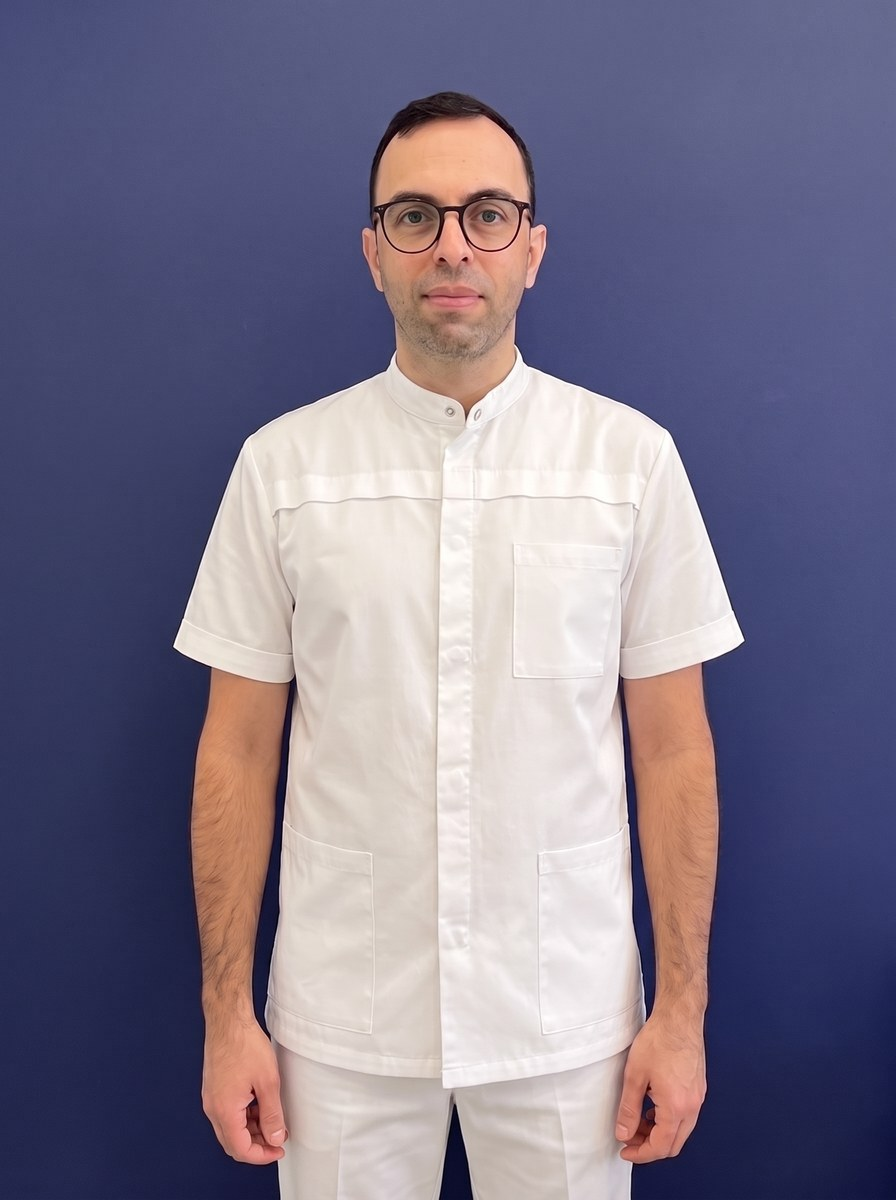
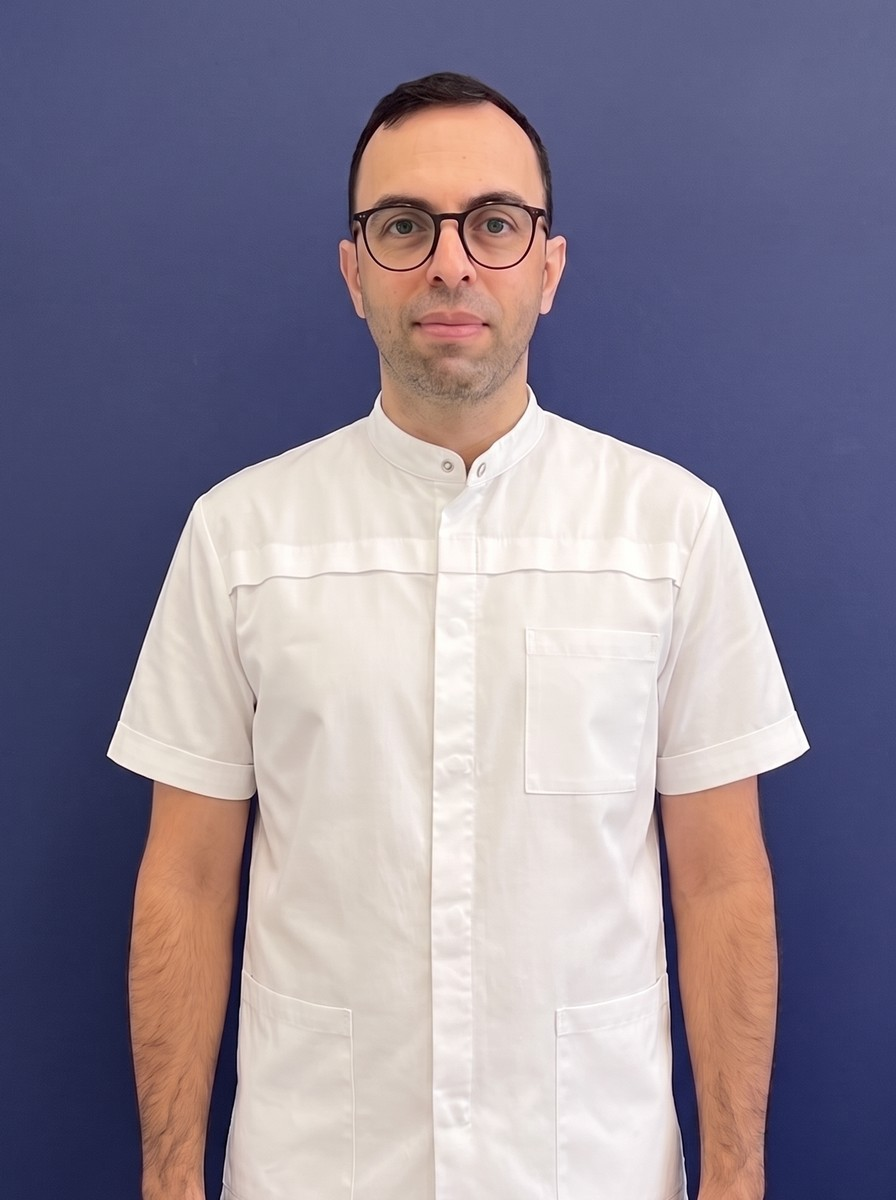
Портреты выровнены по единому кадру, уточнены специализации
Лица теперь одинаково близко: у всех семерых линия глаз на 20% высоты
кадра, лицо занимает одну и ту же долю ширины, центр по вертикальной оси
— эталоном взят кадр Старикова. Кроп считался от замеров лица на каждом
снимке, а не подгонкой на глаз.

Портрет Анны был снят заметно крупнее остальных, и обрезкой его было не
отдалить — кадр пришлось сначала расширить (outpaint дорисовал фон и
фигуру), и только потом кадрировать вместе со всеми.

Стариков и Лев — стоматологи-хирурги, а не терапевты. Полина —
гигиенист, не стоматолог, поэтому её страница, как у ассистентов и
администратора, отдаёт Person вместо Physician и не зовёт «к врачу».

diff --git a/konsultatsiya.html b/konsultatsiya.html
@@ -32,7 +32,7 @@ try {
 <link rel="preconnect" href="https://fonts.googleapis.com">
 <link rel="preconnect" href="https://fonts.gstatic.com" crossorigin>
 <link href="https://fonts.googleapis.com/css2?family=Unbounded:wght@500;700;900&family=Manrope:wght@400;500;700;800&display=swap" rel="stylesheet">
-<link rel="stylesheet" href="styles.css?v=20260826a">
+<link rel="stylesheet" href="styles.css?v=20260826b">
 <script type="application/ld+json">{"@context": "https://schema.org", "@type": "Service", "name": "Приём и консультация стоматолога", "serviceType": "Приём и консультация стоматолога", "provider": {"@type": "Dentist", "name": "Честная стоматология", "address": {"@type": "PostalAddress", "streetAddress": "ул. Танкистов, 68", "addressLocality": "Пермь", "postalCode": "614095", "addressCountry": "RU"}, "telephone": "+79991152419"}, "areaServed": "Пермь", "offers": {"@type": "Offer", "price": "600", "priceCurrency": "RUB"}}</script>
 <script type="application/ld+json">{"@context": "https://schema.org", "@type": "FAQPage", "mainEntity": [{"@type": "Question", "name": "Нужно ли готовиться к консультации?", "acceptedAnswer": {"@type": "Answer", "text": "Нет, особой подготовки не требуется. Если есть снимки из других клиник — возьмите их с собой."}}, {"@type": "Question", "name": "Обязательно ли лечиться после консультации именно у вас?", "acceptedAnswer": {"@type": "Answer", "text": "Нет. План лечения и смета остаются у вас — решение вы принимаете без давления."}}, {"@type": "Question", "name": "Сколько действует смета?", "acceptedAnswer": {"@type": "Answer", "text": "Смета фиксируется в договоре до начала лечения и не меняется в процессе."}}]}</script>
 </head>
@@ -172,11 +172,11 @@ try {
 </div>
 
 <script>window.SERVICE_ID = "konsultatsiya";</script>
-<script src="db.js?v=20260826a"></script>
-<script src="md.js?v=20260826a"></script>
-<script src="services-data.js?v=20260826a"></script>
-<script src="ux.js?v=20260826a"></script>
-<script src="service.js?v=20260826a"></script>
-<script src="a11y.js?v=20260826a"></script>
+<script src="db.js?v=20260826b"></script>
+<script src="md.js?v=20260826b"></script>
+<script src="services-data.js?v=20260826b"></script>
+<script src="ux.js?v=20260826b"></script>
+<script src="service.js?v=20260826b"></script>
+<script src="a11y.js?v=20260826b"></script>
 </body>
 </html>

diff --git a/profgigiena.html b/profgigiena.html
@@ -32,7 +32,7 @@ try {
 <link rel="preconnect" href="https://fonts.googleapis.com">
 <link rel="preconnect" href="https://fonts.gstatic.com" crossorigin>
 <link href="https://fonts.googleapis.com/css2?family=Unbounded:wght@500;700;900&family=Manrope:wght@400;500;700;800&display=swap" rel="stylesheet">
-<link rel="stylesheet" href="styles.css?v=20260826a">
+<link rel="stylesheet" href="styles.css?v=20260826b">
 <script type="application/ld+json">{"@context": "https://schema.org", "@type": "Service", "name": "Профессиональная гигиена полости рта", "serviceType": "Профессиональная гигиена полости рта", "provider": {"@type": "Dentist", "name": "Честная стоматология", "address": {"@type": "PostalAddress", "streetAddress": "ул. Танкистов, 68", "addressLocality": "Пермь", "postalCode": "614095", "addressCountry": "RU"}, "telephone": "+79991152419"}, "areaServed": "Пермь", "offers": {"@type": "Offer", "price": "4900", "priceCurrency": "RUB"}}</script>
 <script type="application/ld+json">{"@context": "https://schema.org", "@type": "FAQPage", "mainEntity": [{"@type": "Question", "name": "Как часто нужно делать профгигиену?", "acceptedAnswer": {"@type": "Answer", "text": "Раз в полгода — регулярная гигиена в разы снижает риск кариеса."}}, {"@type": "Question", "name": "Есть ли акция?", "acceptedAnswer": {"@type": "Answer", "text": "Да, до 31.08.2026 чистка 1+1 для двоих — всего 6 990 ₽."}}, {"@type": "Question", "name": "Отбеливает ли чистка зубы?", "acceptedAnswer": {"@type": "Answer", "text": "Air-Flow возвращает естественный цвет эмали, убирая налёт от кофе, чая и курения."}}]}</script>
 </head>
@@ -172,11 +172,11 @@ try {
 </div>
 
 <script>window.SERVICE_ID = "profgigiena";</script>
-<script src="db.js?v=20260826a"></script>
-<script src="md.js?v=20260826a"></script>
-<script src="services-data.js?v=20260826a"></script>
-<script src="ux.js?v=20260826a"></script>
-<script src="service.js?v=20260826a"></script>
-<script src="a11y.js?v=20260826a"></script>
+<script src="db.js?v=20260826b"></script>
+<script src="md.js?v=20260826b"></script>
+<script src="services-data.js?v=20260826b"></script>
+<script src="ux.js?v=20260826b"></script>
+<script src="service.js?v=20260826b"></script>
+<script src="a11y.js?v=20260826b"></script>
 </body>
 </html>

diff --git a/protezirovanie.html b/protezirovanie.html
@@ -32,7 +32,7 @@ try {
 <link rel="preconnect" href="https://fonts.googleapis.com">
 <link rel="preconnect" href="https://fonts.gstatic.com" crossorigin>
 <link href="https://fonts.googleapis.com/css2?family=Unbounded:wght@500;700;900&family=Manrope:wght@400;500;700;800&display=swap" rel="stylesheet">
-<link rel="stylesheet" href="styles.css?v=20260826a">
+<link rel="stylesheet" href="styles.css?v=20260826b">
 <script type="application/ld+json">{"@context": "https://schema.org", "@type": "Service", "name": "Протезирование зубов", "serviceType": "Протезирование зубов", "provider": {"@type": "Dentist", "name": "Честная стоматология", "address": {"@type": "PostalAddress", "streetAddress": "ул. Танкистов, 68", "addressLocality": "Пермь", "postalCode": "614095", "addressCountry": "RU"}, "telephone": "+79991152419"}, "areaServed": "Пермь", "offers": {"@type": "Offer", "price": "10440", "priceCurrency": "RUB"}}</script>
 <script type="application/ld+json">{"@context": "https://schema.org", "@type": "FAQPage", "mainEntity": [{"@type": "Question", "name": "Что значит «под ключ»?", "acceptedAnswer": {"@type": "Answer", "text": "В цену включены все этапы: подготовка, слепки, изготовление, примерка и фиксация."}}, {"@type": "Question", "name": "Какая коронка лучше?", "acceptedAnswer": {"@type": "Answer", "text": "Цельнолитая — бюджетный вариант для жевательных зубов, циркониевая — эстетичнее, по акции 24 500 ₽."}}, {"@type": "Question", "name": "Больно ли ставить коронку?", "acceptedAnswer": {"@type": "Answer", "text": "Все этапы проходят с анестезией."}}]}</script>
 </head>
@@ -172,11 +172,11 @@ try {
 </div>
 
 <script>window.SERVICE_ID = "protezirovanie";</script>
-<script src="db.js?v=20260826a"></script>
-<script src="md.js?v=20260826a"></script>
-<script src="services-data.js?v=20260826a"></script>
-<script src="ux.js?v=20260826a"></script>
-<script src="service.js?v=20260826a"></script>
-<script src="a11y.js?v=20260826a"></script>
+<script src="db.js?v=20260826b"></script>
+<script src="md.js?v=20260826b"></script>
+<script src="services-data.js?v=20260826b"></script>
+<script src="ux.js?v=20260826b"></script>
+<script src="service.js?v=20260826b"></script>
+<script src="a11y.js?v=20260826b"></script>
 </body>
 </html>

diff --git a/lechenie-kariesa.html b/lechenie-kariesa.html
@@ -32,7 +32,7 @@ try {
 <link rel="preconnect" href="https://fonts.googleapis.com">
 <link rel="preconnect" href="https://fonts.gstatic.com" crossorigin>
 <link href="https://fonts.googleapis.com/css2?family=Unbounded:wght@500;700;900&family=Manrope:wght@400;500;700;800&display=swap" rel="stylesheet">
-<link rel="stylesheet" href="styles.css?v=20260826a">
+<link rel="stylesheet" href="styles.css?v=20260826b">
 <script type="application/ld+json">{"@context": "https://schema.org", "@type": "Service", "name": "Лечение кариеса", "serviceType": "Лечение кариеса", "provider": {"@type": "Dentist", "name": "Честная стоматология", "address": {"@type": "PostalAddress", "streetAddress": "ул. Танкистов, 68", "addressLocality": "Пермь", "postalCode": "614095", "addressCountry": "RU"}, "telephone": "+79991152419"}, "areaServed": "Пермь", "offers": {"@type": "Offer", "price": "4000", "priceCurrency": "RUB"}}</script>
 <script type="application/ld+json">{"@context": "https://schema.org", "@type": "FAQPage", "mainEntity": [{"@type": "Question", "name": "Больно ли лечить кариес?", "acceptedAnswer": {"@type": "Answer", "text": "Нет, используем современную анестезию — пациенты не чувствуют даже укол."}}, {"@type": "Question", "name": "Действует ли скидка?", "acceptedAnswer": {"@type": "Answer", "text": "Да, до 31.08.2026 — скидка 15% на лечение кариеса при прохождении профгигиены."}}, {"@type": "Question", "name": "Что будет, если кариес не лечить?", "acceptedAnswer": {"@type": "Answer", "text": "Кариес перейдёт в пульпит — лечение будет дольше и дороже."}}]}</script>
 </head>
@@ -172,11 +172,11 @@ try {
 </div>
 
 <script>window.SERVICE_ID = "lechenie-kariesa";</script>
-<script src="db.js?v=20260826a"></script>
-<script src="md.js?v=20260826a"></script>
-<script src="services-data.js?v=20260826a"></script>
-<script src="ux.js?v=20260826a"></script>
-<script src="service.js?v=20260826a"></script>
-<script src="a11y.js?v=20260826a"></script>
+<script src="db.js?v=20260826b"></script>
+<script src="md.js?v=20260826b"></script>
+<script src="services-data.js?v=20260826b"></script>
+<script src="ux.js?v=20260826b"></script>
+<script src="service.js?v=20260826b"></script>
+<script src="a11y.js?v=20260826b"></script>
 </body>
 </html>

diff --git a/restavratsiya.html b/restavratsiya.html
@@ -32,7 +32,7 @@ try {
 <link rel="preconnect" href="https://fonts.googleapis.com">
 <link rel="preconnect" href="https://fonts.gstatic.com" crossorigin>
 <link href="https://fonts.googleapis.com/css2?family=Unbounded:wght@500;700;900&family=Manrope:wght@400;500;700;800&display=swap" rel="stylesheet">
-<link rel="stylesheet" href="styles.css?v=20260826a">
+<link rel="stylesheet" href="styles.css?v=20260826b">
 <script type="application/ld+json">{"@context": "https://schema.org", "@type": "Service", "name": "Эстетическая реставрация зубов", "serviceType": "Эстетическая реставрация зубов", "provider": {"@type": "Dentist", "name": "Честная стоматология", "address": {"@type": "PostalAddress", "streetAddress": "ул. Танкистов, 68", "addressLocality": "Пермь", "postalCode": "614095", "addressCountry": "RU"}, "telephone": "+79991152419"}, "areaServed": "Пермь", "offers": {"@type": "Offer", "price": "3500", "priceCurrency": "RUB"}}</script>
 <script type="application/ld+json">{"@context": "https://schema.org", "@type": "FAQPage", "mainEntity": [{"@type": "Question", "name": "Чем реставрация отличается от коронки?", "acceptedAnswer": {"@type": "Answer", "text": "Реставрация делается композитом за один визит и не требует обточки зуба."}}, {"@type": "Question", "name": "Сколько держится реставрация?", "acceptedAnswer": {"@type": "Answer", "text": "При правильном уходе — 5–10 лет."}}, {"@type": "Question", "name": "Можно ли закрыть щель между передними зубами?", "acceptedAnswer": {"@type": "Answer", "text": "Да, это решается за один визит."}}]}</script>
 </head>
@@ -172,11 +172,11 @@ try {
 </div>
 
 <script>window.SERVICE_ID = "restavratsiya";</script>
-<script src="db.js?v=20260826a"></script>
-<script src="md.js?v=20260826a"></script>
-<script src="services-data.js?v=20260826a"></script>
-<script src="ux.js?v=20260826a"></script>
-<script src="service.js?v=20260826a"></script>
-<script src="a11y.js?v=20260826a"></script>
+<script src="db.js?v=20260826b"></script>
+<script src="md.js?v=20260826b"></script>
+<script src="services-data.js?v=20260826b"></script>
+<script src="ux.js?v=20260826b"></script>
+<script src="service.js?v=20260826b"></script>
+<script src="a11y.js?v=20260826b"></script>
 </body>
 </html>

diff --git a/udalenie-zubov.html b/udalenie-zubov.html
@@ -32,7 +32,7 @@ try {
 <link rel="preconnect" href="https://fonts.googleapis.com">
 <link rel="preconnect" href="https://fonts.gstatic.com" crossorigin>
 <link href="https://fonts.googleapis.com/css2?family=Unbounded:wght@500;700;900&family=Manrope:wght@400;500;700;800&display=swap" rel="stylesheet">
-<link rel="stylesheet" href="styles.css?v=20260826a">
+<link rel="stylesheet" href="styles.css?v=20260826b">
 <script type="application/ld+json">{"@context": "https://schema.org", "@type": "Service", "name": "Удаление зубов", "serviceType": "Удаление зубов", "provider": {"@type": "Dentist", "name": "Честная стоматология", "address": {"@type": "PostalAddress", "streetAddress": "ул. Танкистов, 68", "addressLocality": "Пермь", "postalCode": "614095", "addressCountry": "RU"}, "telephone": "+79991152419"}, "areaServed": "Пермь", "offers": {"@type": "Offer", "price": "2500", "priceCurrency": "RUB"}}</script>
 <script type="application/ld+json">{"@context": "https://schema.org", "@type": "FAQPage", "mainEntity": [{"@type": "Question", "name": "Вы сразу предложите удалить зуб?", "acceptedAnswer": {"@type": "Answer", "text": "Нет, наш принцип — сохранять зубы, которые можно вылечить."}}, {"@type": "Question", "name": "Принимаете ли вы с острой болью?", "acceptedAnswer": {"@type": "Answer", "text": "Да, есть неотложка для взрослых — постараемся принять в день обращения."}}, {"@type": "Question", "name": "Что делать после удаления?", "acceptedAnswer": {"@type": "Answer", "text": "Врач даст подробные рекомендации; при вопросах — звоните."}}]}</script>
 </head>
@@ -172,11 +172,11 @@ try {
 </div>
 
 <script>window.SERVICE_ID = "udalenie-zubov";</script>
-<script src="db.js?v=20260826a"></script>
-<script src="md.js?v=20260826a"></script>
-<script src="services-data.js?v=20260826a"></script>
-<script src="ux.js?v=20260826a"></script>
-<script src="service.js?v=20260826a"></script>
-<script src="a11y.js?v=20260826a"></script>
+<script src="db.js?v=20260826b"></script>
+<script src="md.js?v=20260826b"></script>
+<script src="services-data.js?v=20260826b"></script>
+<script src="ux.js?v=20260826b"></script>
+<script src="service.js?v=20260826b"></script>
+<script src="a11y.js?v=20260826b"></script>
 </body>
 </html>

diff --git a/index.html b/index.html
@@ -80,10 +80,10 @@ try {
 <link rel="preconnect" href="https://fonts.googleapis.com">
 <link rel="preconnect" href="https://fonts.gstatic.com" crossorigin>
 <link href="https://fonts.googleapis.com/css2?family=Unbounded:wght@500;700;900&family=Manrope:wght@400;500;700;800&family=Cairo:wght@400;600;800&display=swap" rel="stylesheet">
-<link rel="stylesheet" href="styles.css?v=20260826a">
-<link rel="stylesheet" href="effects.css?v=20260826a">
-<link rel="stylesheet" href="cards-fx.css?v=20260826a">
-<link rel="stylesheet" href="polish.css?v=20260826a">
+<link rel="stylesheet" href="styles.css?v=20260826b">
+<link rel="stylesheet" href="effects.css?v=20260826b">
+<link rel="stylesheet" href="cards-fx.css?v=20260826b">
+<link rel="stylesheet" href="polish.css?v=20260826b">
 </head>
 <body data-theme="deep">
 <a class="skip-link" href="#care">Перейти к содержанию</a>
@@ -658,20 +658,20 @@ try {
   </div>
 </div>
 
-<script src="i18n.js?v=20260826a"></script>
-<script src="db.js?v=20260826a"></script>
-<script src="auth.js?v=20260826a"></script>
-<script src="md.js?v=20260826a"></script>
-<script src="ux.js?v=20260826a"></script>
-<script src="app.js?v=20260826a"></script>
-<script src="water.js?v=20260826a" defer></script>
-<script src="effects.js?v=20260826a" defer></script>
-<script src="teeth-map.js?v=20260826a" defer></script>
-<script src="hero-seq.js?v=20260826a" defer></script>
-<script src="tour.js?v=20260826a" defer></script>
-<script src="cards-fx.js?v=20260826a" defer></script>
-<script src="motion-fx.js?v=20260826a" defer></script>
-<script src="polish.js?v=20260826a" defer></script>
-<script src="a11y.js?v=20260826a"></script>
+<script src="i18n.js?v=20260826b"></script>
+<script src="db.js?v=20260826b"></script>
+<script src="auth.js?v=20260826b"></script>
+<script src="md.js?v=20260826b"></script>
+<script src="ux.js?v=20260826b"></script>
+<script src="app.js?v=20260826b"></script>
+<script src="water.js?v=20260826b" defer></script>
+<script src="effects.js?v=20260826b" defer></script>
+<script src="teeth-map.js?v=20260826b" defer></script>
+<script src="hero-seq.js?v=20260826b" defer></script>
+<script src="tour.js?v=20260826b" defer></script>
+<script src="cards-fx.js?v=20260826b" defer></script>
+<script src="motion-fx.js?v=20260826b" defer></script>
+<script src="polish.js?v=20260826b" defer></script>
+<script src="a11y.js?v=20260826b"></script>
 </body>
 </html>

diff --git a/db.js b/db.js
@@ -35,8 +35,8 @@ const ChestomDB = (() => {
         id: "starikov",
         name: "Стариков",
         fullName: "Стариков",
-        role: "Врач-стоматолог",
-        desc: "Терапевтическое лечение: кариес, пульпит, реставрация. Подробно объясняет план лечения до начала работы.",
+        role: "Врач стоматолог-хирург",
+        desc: "Хирургическое лечение: удаление зубов, в том числе сложное, и подготовка к протезированию. Подробно объясняет ход вмешательства до начала работы.",
         photo: "team/starikov.jpg",
         hue: 205
       },
@@ -44,8 +44,8 @@ const ChestomDB = (() => {
         id: "lev",
         name: "Лев",
         fullName: "Лев",
-        role: "Врач-стоматолог",
-        desc: "Лечение и реставрация зубов. Работает спокойно и без спешки — важно, если визит к стоматологу даётся тяжело.",
+        role: "Врач стоматолог-хирург",
+        desc: "Удаление зубов и хирургическая подготовка полости рта. Работает спокойно и без спешки — важно, если визит к стоматологу даётся тяжело.",
         photo: "team/lev.jpg",
         hue: 225
       },
@@ -53,7 +53,7 @@ const ChestomDB = (() => {
         id: "polina",
         name: "Полина",
         fullName: "Полина",
-        role: "Стоматолог-гигиенист",
+        role: "Гигиенист",
         desc: "Профессиональная гигиена, снятие налёта и зубного камня, подбор домашнего ухода. Покажет, как чистить зубы именно вам.",
         photo: "team/polina.jpg",
         hue: 170

diff --git a/admin.html b/admin.html
@@ -20,8 +20,8 @@ try { if (!localStorage.getItem("chestom_session")) location.replace("login.html
 <link rel="preconnect" href="https://fonts.googleapis.com">
 <link rel="preconnect" href="https://fonts.gstatic.com" crossorigin>
 <link href="https://fonts.googleapis.com/css2?family=Unbounded:wght@500;700&family=Manrope:wght@400;500;700;800&display=swap" rel="stylesheet">
-<link rel="stylesheet" href="styles.css?v=20260826a">
-<link rel="stylesheet" href="admin.css?v=20260826a">
+<link rel="stylesheet" href="styles.css?v=20260826b">
+<link rel="stylesheet" href="admin.css?v=20260826b">
 </head>
 <body class="adm-body">
 
@@ -302,10 +302,10 @@ try { if (!localStorage.getItem("chestom_session")) location.replace("login.html
   </div>
 </div>
 
-<script src="db.js?v=20260826a"></script>
-<script src="auth.js?v=20260826a"></script>
-<script src="md.js?v=20260826a"></script>
-<script src="admin.js?v=20260826a"></script>
-<script src="a11y.js?v=20260826a"></script>
+<script src="db.js?v=20260826b"></script>
+<script src="auth.js?v=20260826b"></script>
+<script src="md.js?v=20260826b"></script>
+<script src="admin.js?v=20260826b"></script>
+<script src="a11y.js?v=20260826b"></script>
 </body>
 </html>

diff --git a/_service_template.html b/_service_template.html
@@ -27,7 +27,7 @@ try {
 <link rel="preconnect" href="https://fonts.googleapis.com">
 <link rel="preconnect" href="https://fonts.gstatic.com" crossorigin>
 <link href="https://fonts.googleapis.com/css2?family=Unbounded:wght@500;700;900&family=Manrope:wght@400;500;700;800&display=swap" rel="stylesheet">
-<link rel="stylesheet" href="styles.css?v=20260826a">
+<link rel="stylesheet" href="styles.css?v=20260826b">
 <script type="application/ld+json">{{LD_SERVICE}}</script>
 <script type="application/ld+json">{{LD_FAQ}}</script>
 </head>
@@ -167,11 +167,11 @@ try {
 </div>
 
 <script>window.SERVICE_ID = "{{SLUG}}";</script>
-<script src="db.js?v=20260826a"></script>
-<script src="md.js?v=20260826a"></script>
-<script src="services-data.js?v=20260826a"></script>
-<script src="ux.js?v=20260826a"></script>
-<script src="service.js?v=20260826a"></script>
-<script src="a11y.js?v=20260826a"></script>
+<script src="db.js?v=20260826b"></script>
+<script src="md.js?v=20260826b"></script>
+<script src="services-data.js?v=20260826b"></script>
+<script src="ux.js?v=20260826b"></script>
+<script src="service.js?v=20260826b"></script>
+<script src="a11y.js?v=20260826b"></script>
 </body>
 </html>

diff --git a/404.html b/404.html
@@ -19,7 +19,7 @@ try {
 <link rel="preconnect" href="https://fonts.googleapis.com">
 <link rel="preconnect" href="https://fonts.gstatic.com" crossorigin>
 <link href="https://fonts.googleapis.com/css2?family=Unbounded:wght@700&family=Manrope:wght@400;700&display=swap" rel="stylesheet">
-<link rel="stylesheet" href="styles.css?v=20260826a">
+<link rel="stylesheet" href="styles.css?v=20260826b">
 <style>
   .nf { min-height: 100svh; display: flex; flex-direction: column; align-items: center; justify-content: center; text-align: center; padding: 24px; gap: 18px; }
   .nf__tooth { width: 120px; opacity: 0.85; filter: drop-shadow(0 16px 50px rgba(122, 108, 240,0.35)); animation: nfFloat 4s ease-in-out infinite alternate; }
@@ -40,6 +40,6 @@ try {
   <a class="btn btn--primary btn--lg" href="index.html">На главную</a>
   <a class="btn btn--ghost" href="tel:+79991152419">Позвонить: +7 999 115-24-19</a>
 </main>
-<script src="a11y.js?v=20260826a"></script>
+<script src="a11y.js?v=20260826b"></script>
 </body>
 </html>

diff --git a/doctor.js b/doctor.js
@@ -24,9 +24,9 @@
   };
 
   /* ── профиль ── */
-  /* В команде есть не только врачи: ассистенты и администратор. Для них
-     нельзя ни размечать Physician, ни звать «записаться к врачу». */
-  const isDoctor = !/ассистент|администратор/i.test(doc.role || "");
+  /* В команде есть не только врачи: гигиенист, ассистенты и администратор.
+     Для них нельзя ни размечать Physician, ни звать «записаться к врачу». */
+  const isDoctor = !/ассистент|администратор|гигиенист/i.test(doc.role || "");
   document.title = `${doc.name} — Честная стоматология, Пермь`;
   /* Schema.org: Physician для врачей, Person для остальных сотрудников */
   const ld = document.createElement("script");
